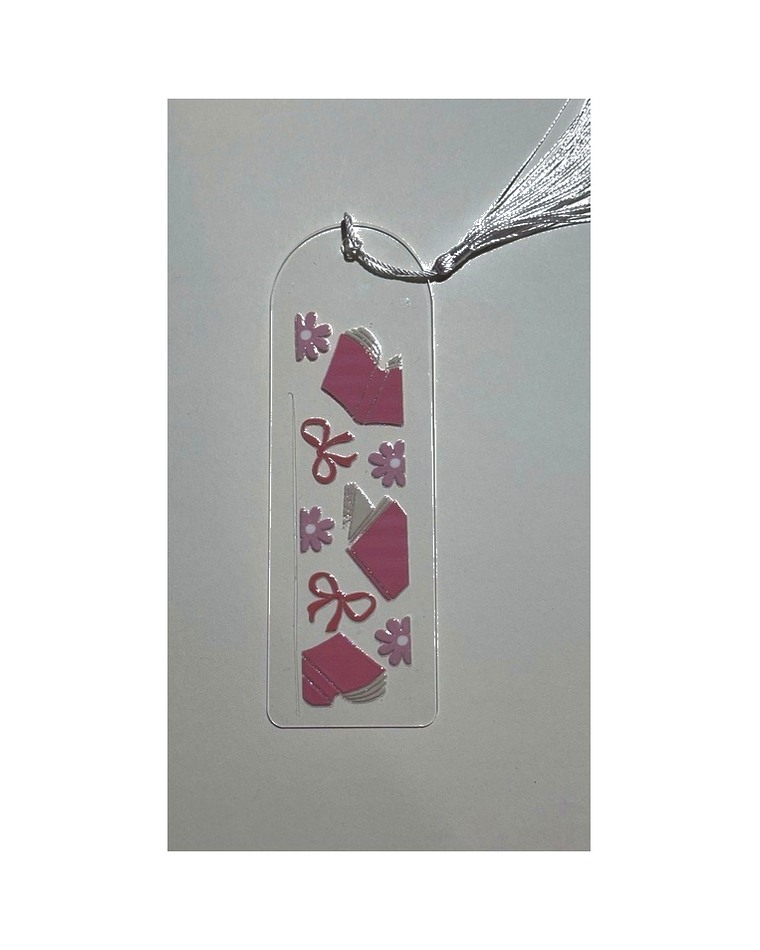
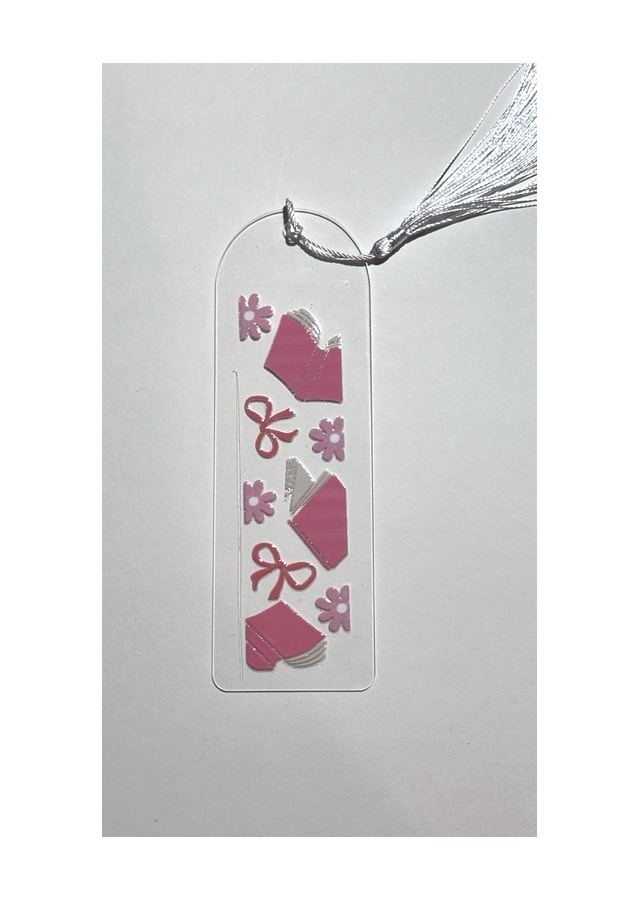
Fix the lightbox staying open, and clean the remaining grey backdrops
The lightbox covered the page permanently: .lightbox{display:grid} out-specifies
the browser default for [hidden], so the element never hid. Same class of bug
pinned the cart badge visible at 0. Added explicit [hidden] overrides.

Also isolated four bookmarks from their grey photo backdrops.

diff --git a/assets/css/styles.css b/assets/css/styles.css
@@ -349,3 +349,16 @@ footer a{color:var(--purple)}
   .lb-prev,.lb-next{position:absolute;bottom:20px;width:48px;height:48px}
   .lb-prev{left:22px}.lb-next{right:22px}
 }
+
+
+/* [hidden] must win. A display rule on these elements out-specifies the
+   browser default of display:none, which left the lightbox permanently open
+   over the whole page and pinned the cart badge to "0". */
+.lightbox[hidden],
+.cart-count[hidden],
+.toast[hidden],
+.scrim[hidden],
+#panelCart[hidden], #panelCheckout[hidden], #panelDone[hidden],
+#cartSaved[hidden], #copyBody[hidden], #coAddrWrap[hidden],
+.lb-prev[hidden], .lb-next[hidden],
+.theme[hidden]{ display:none !important; }
